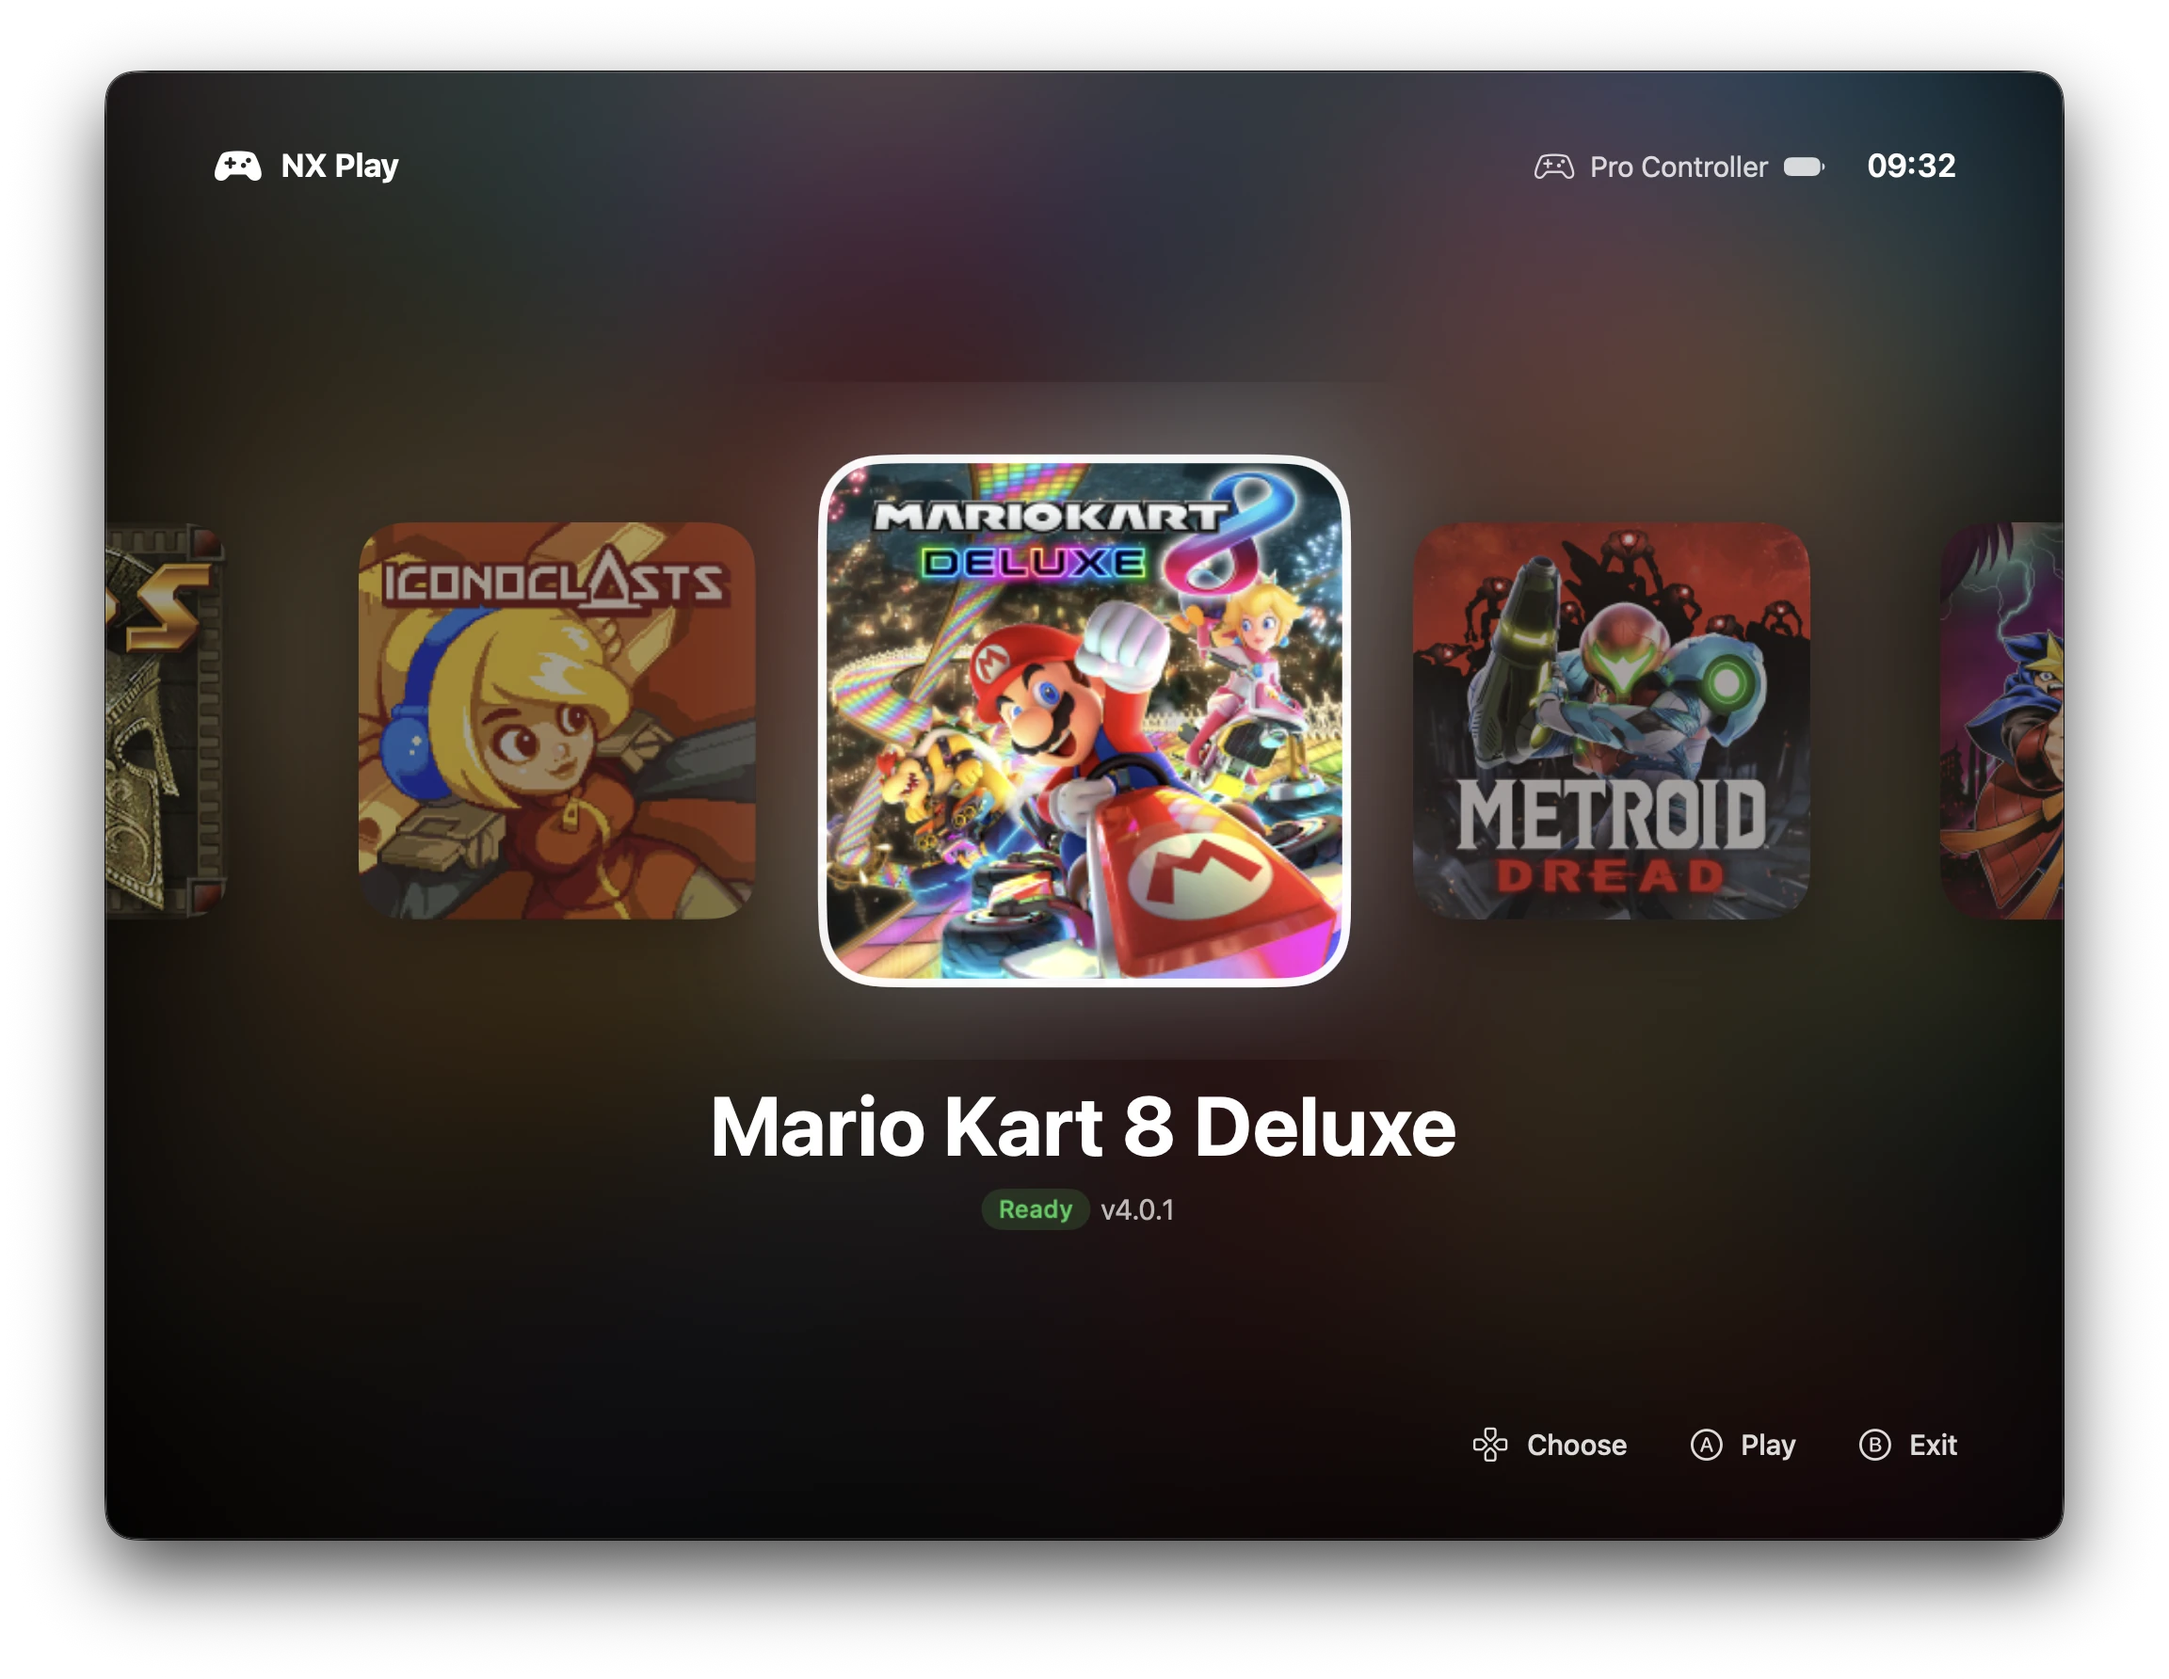
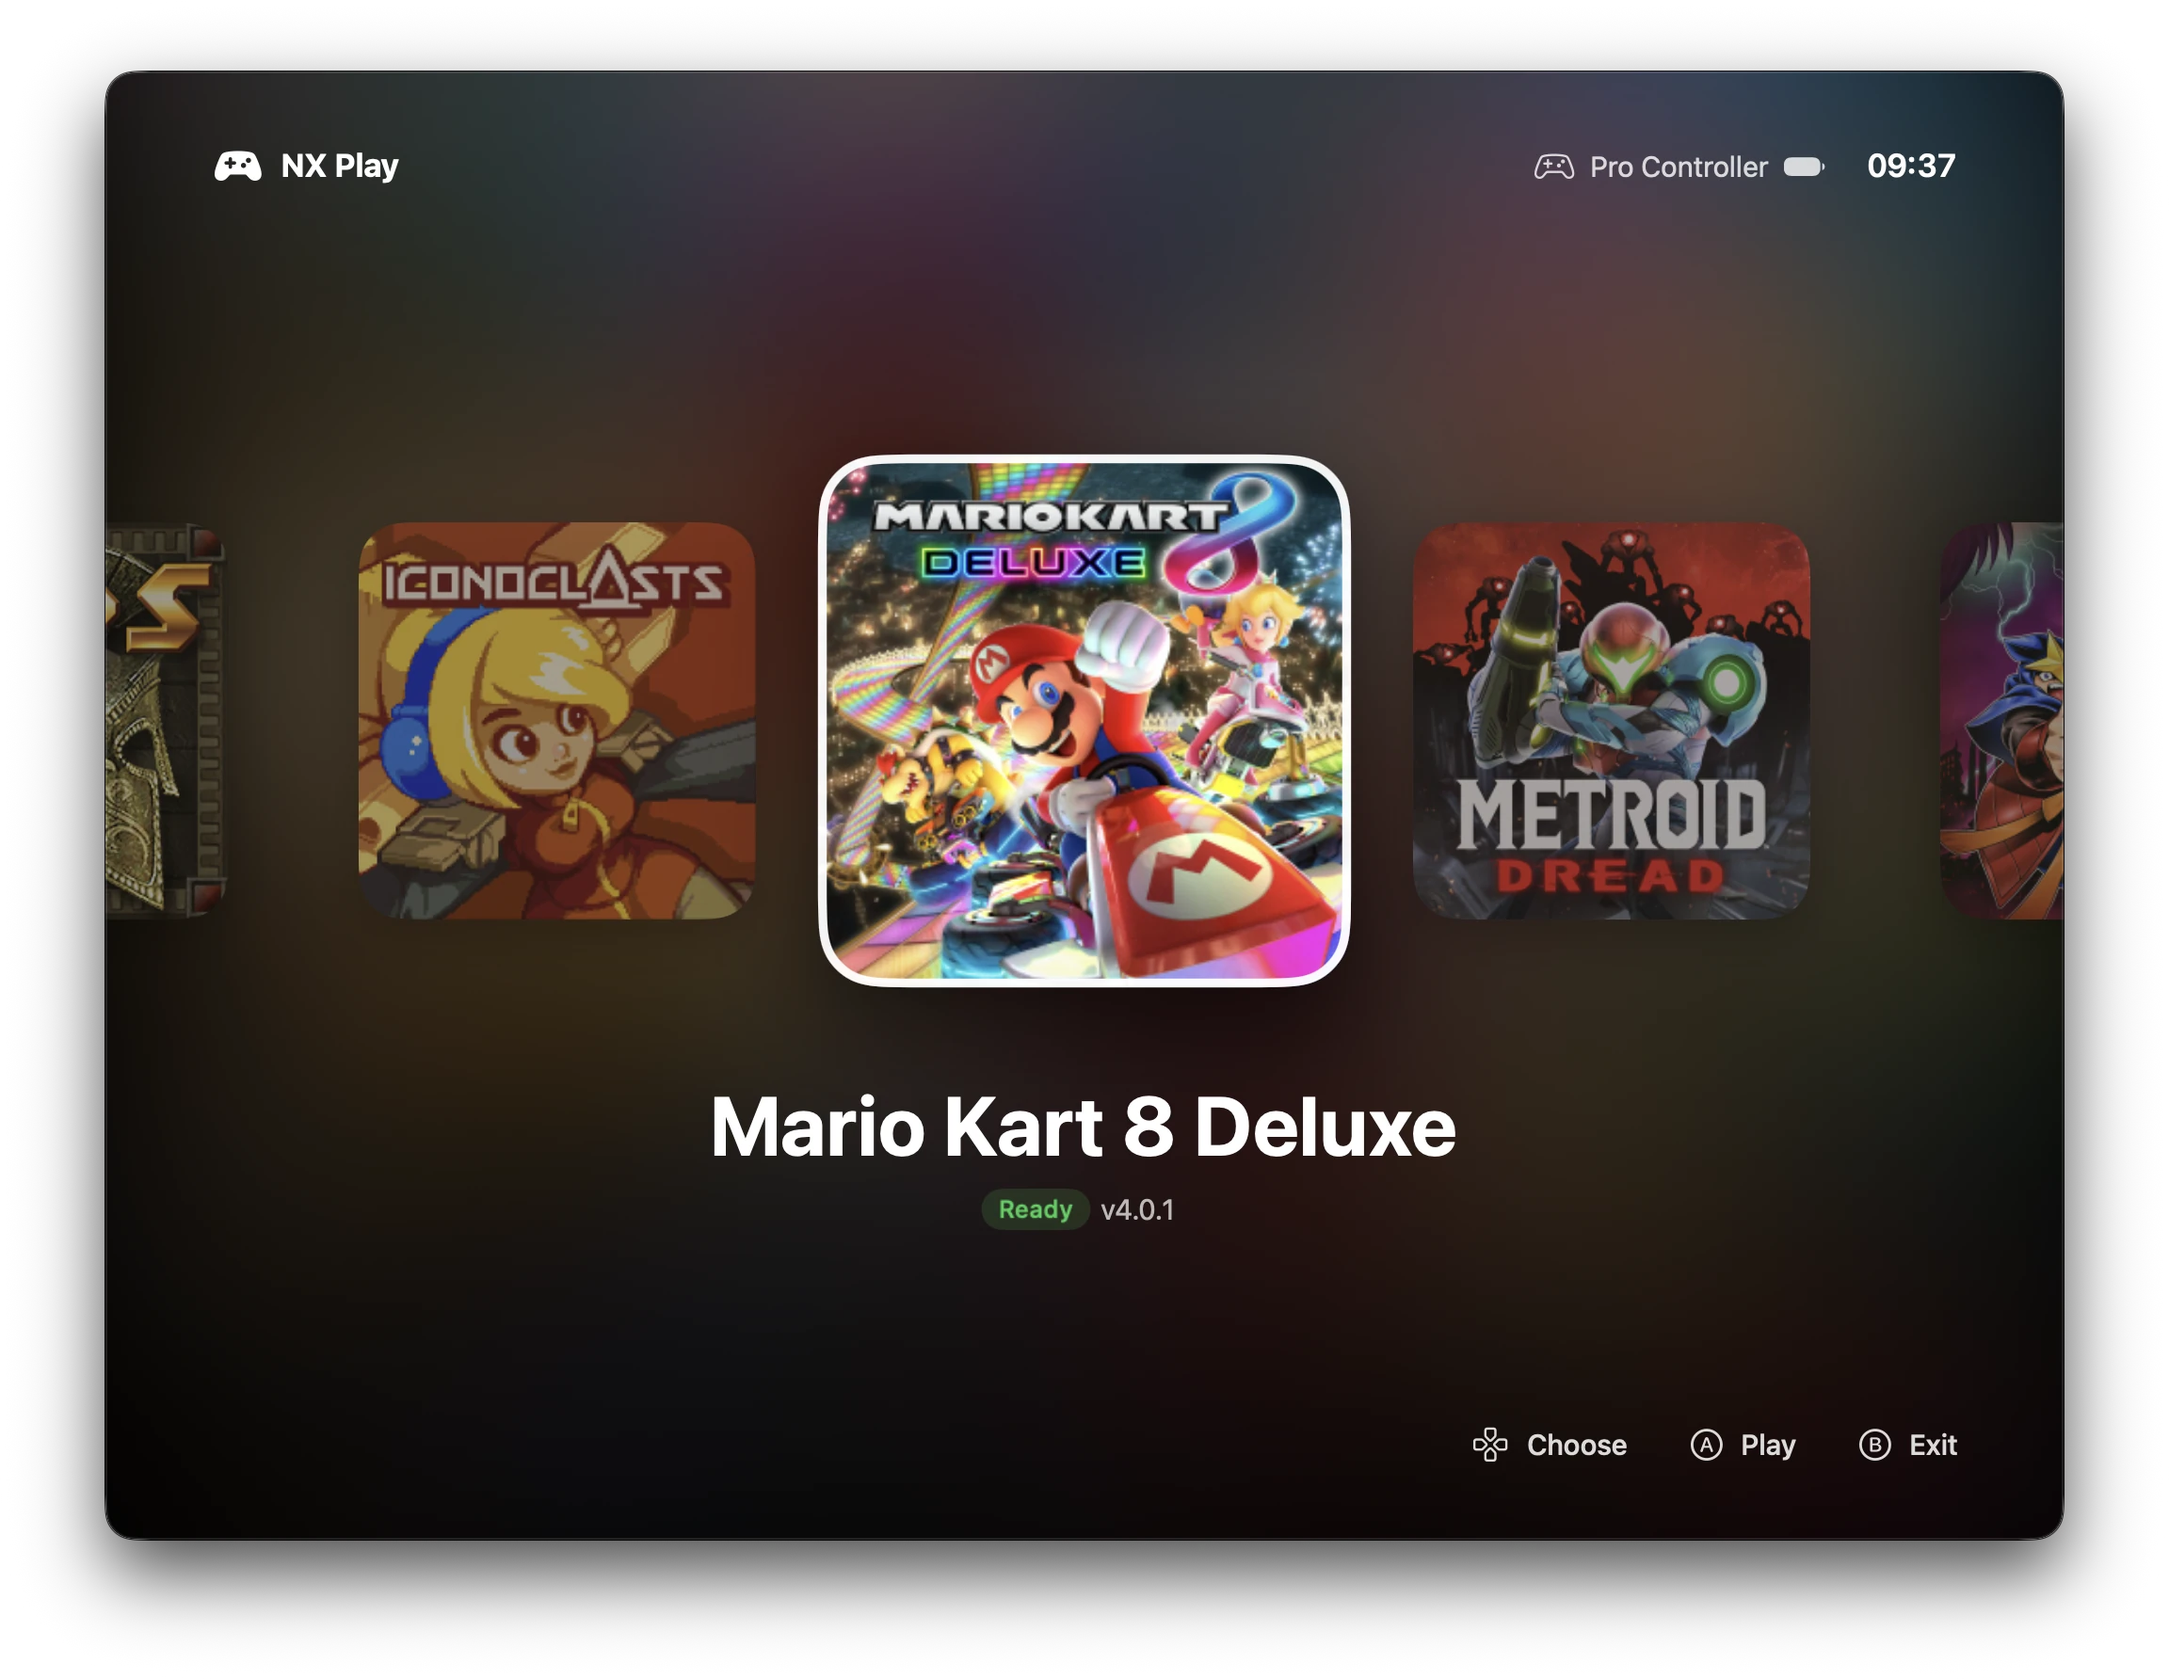
Drop the white glow around Console Mode's selected tile
The carousel's scroll view clipped the glow at its bounds, leaving a lit, hard-edged band around the selection that looked foreign to the rest of the screen. The outline and scale already mark the selection; a deeper drop shadow lifts it, and shadows are no longer clipped.

Changed region(s): [[0.3438, 0.2466, 0.6562, 0.6166]]

diff --git a/Packages/NXPlayKit/Sources/NXPlayKit/Views/ConsoleView.swift b/Packages/NXPlayKit/Sources/NXPlayKit/Views/ConsoleView.swift
@@ -158,6 +158,7 @@ private struct Carousel: View {
                     .frame(height: geometry.size.height)
                 }
                 .scrollDisabled(true)
+                .scrollClipDisabled()  // shadows fade out instead of ending at the carousel's edges
                 .onChange(of: selection, initial: true) {
                     withAnimation(.spring(duration: 0.4, bounce: 0.15)) {
                         proxy.scrollTo(selection, anchor: .center)
@@ -190,8 +191,11 @@ private struct Tile: View {
                     .white.opacity(isSelected ? 0.95 : 0), lineWidth: 4)
             }
             .frame(width: ConsoleView.tile, height: ConsoleView.tile)
-            .shadow(color: .white.opacity(isSelected ? 0.35 : 0), radius: 30)
-            .shadow(color: .black.opacity(0.5), radius: 18, y: 10)
+            // the outline and the scale mark the selection; a white glow read as a lit, foreign band
+            .shadow(
+                color: .black.opacity(isSelected ? 0.6 : 0.4), radius: isSelected ? 24 : 14,
+                y: isSelected ? 14 : 8
+            )
             .scaleEffect(isSelected ? 1.18 : 0.88)
             .opacity(isSelected ? 1 : 0.55)
             .animation(.spring(duration: 0.35, bounce: 0.2), value: isSelected)
